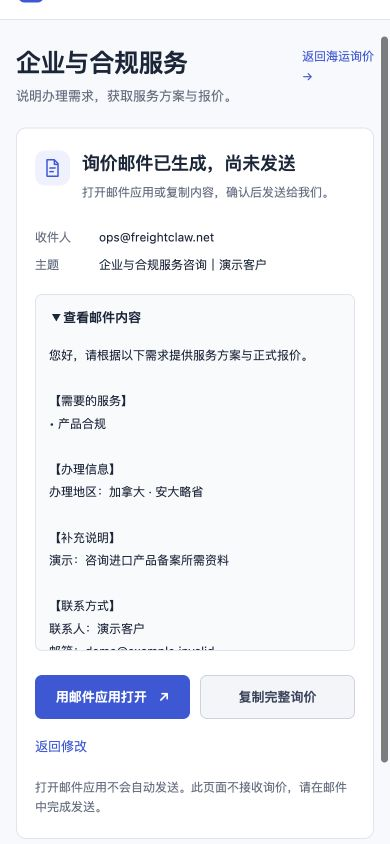
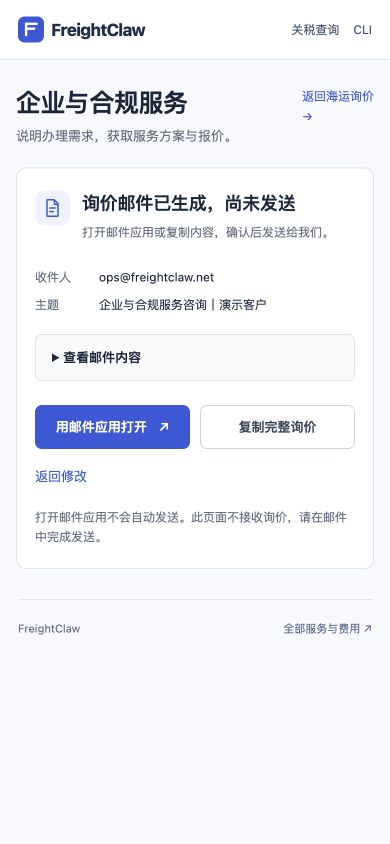
docs: add live inquiry screenshots and release verification

diff --git a/docs/runbooks/shipper-inquiry.md b/docs/runbooks/shipper-inquiry.md
@@ -25,6 +25,8 @@
 
 出货/服务日期、补充说明均可留空。页面不接受负数、零或科学计数法作为体积、重量或柜数；未掌握数量时使用「待确认」。返回上一步、切换整柜与拼箱时保留本页草稿；导出仅包含当前模式与当前服务相关的字段。
 
+![整柜运输信息示例，柜型与柜数按运输方式显示](assets/shipper-inquiry/05-fcl-desktop.jpg)
+
 ## 3. 确认并生成邮件
 
 核对服务与运输摘要，填写联系人和电子邮箱。公司、电话选填。点击「生成询价邮件」后显示完整预览和 **「询价邮件已生成，尚未发送」**。
@@ -35,6 +37,8 @@
 - 「返回修改」保留资料，修改后需要重新勾选核对。
 
 收件人沿用原应用的 `ops@freightclaw.net`。网站不接收、保存或代发本表单，生成预览不代表已经提交、收到或报价成功。草稿只在当前页面内存中保留，刷新或关闭页面会清空。
+
+![线上整柜邮件预览，使用演示资料，尚未发送](assets/shipper-inquiry/06-mail-desktop.jpg)
 
 ## 企业与合规服务
 
@@ -47,6 +51,8 @@
 [全部服务与费用](https://www.freightclaw.net/inquiry/details/) 在新标签页打开保留的完整询价应用，避免离开正在填写的简明表单。原 84 项服务、14 个分组、目录版本 `OCEAN-FLOW-2026-07-V4` 及原计算逻辑保持原样。
 
 新流程的摘要显示「待报价」，不读取或改写价格。原费用表里的 CAD/USD 小计仅代表原逻辑已计算部分，不能理解成尚未报价的整柜运费为零。
+
+![原完整费用应用，整柜运费仍独立勾选并标记待报价](assets/shipper-inquiry/07-details-desktop.jpg)
 
 ## 构建与验证
 
@@ -66,7 +72,14 @@ git diff --check
 
 本轮自动测试覆盖服务选择、条件字段、未知数量、严格数量与联系方式校验、当前服务范围、HTML 转义、邮件参数编码及长邮件完整保留。浏览器使用合成资料验证整柜、拼箱、错误定位、返回草稿、企业咨询、邮件生成和复制；没有发送邮件。
 
-本轮截图来自本地候选页面，视口为 1280 × 720、390 × 844 和当前窗口 729 × 686。上线读回和最终截图记录将在发布验证后写入本节。
+2026-09-07（北京时间）已发布并验证公开页面。本文 7 张截图均直接来自 `https://www.freightclaw.net/inquiry/` 或保留的 `/inquiry/details/`，未做图片编辑；视口为 1280 × 720、390 × 844 和 729 × 686。资料均为演示资料，未点击发送邮件。具体地址、UTC 拍摄时间、尺寸和 SHA-256 见 [截图记录](assets/shipper-inquiry/screenshots.json)。
+
+![729 像素窗口中的服务选择与固定下一步按钮](assets/shipper-inquiry/03-select-tablet.jpg)
+
+- [完整 CI](https://github.com/zqj372-ops/cross-border-logistics-mcp/actions/runs/34053603967) 在代码提交 `5372903ffd51dceca37df3a2413a6cc211383817` 上通过：179 个测试文件、1,728 项测试，以及整体/CLI 构建、类型检查、lint、Schema、Agent 标准、发布 fixture 和 Docker 镜像验证。CI 数据库验证使用隔离测试环境。
+- 线上浏览器完成整柜邮件生成与复制、拼箱零数量拦截、重量待确认、返回草稿、切换模式不带入旧柜型、独立企业咨询及原整柜勾选检查；三个视口均无横向溢出，两个询价页面均未记录到浏览器 warning/error。
+- 11 个公网路径返回 HTTP 200，文件内容全部符合发布清单。新 HTML 使用 `no-cache`；新 JS/CSS 使用内容摘要文件名。官网首页、原费用 JS/CSS 和 84 项费用目录读回与发布前一致。HTML 校验仅剔除 Cloudflare 追加的已知统计脚本，未忽略其他差异。
+- 以上记录证明本次页面及静态资源交付；不代表邮件已送达或询价已转为正式报价。可复查 [发布验证记录](assets/shipper-inquiry/verification.json)。
 
 ## 发布与回滚
 
@@ -77,3 +90,5 @@ git diff --check
 5. 用浏览器确认五项服务、三步询价、完整费用入口以及官网/关税/CLI 导航；不发送真实业务邮件。
 
 这次只发布静态询价页面及其 HTML 缓存配置，不需要数据库迁移或 Portal 镜像切换。回滚时恢复此次备份的询价 HTML、导航样式及 include，经配置检查后 reload；已有版本化资源可保留，不用旧备份覆盖数据库或其他业务应用。
+
+本次发布编号为 `inquiry-584bfabc3ec87057`，备份目录为 `/data/freightclaw/releases/inquiry-584bfabc3ec87057`。服务器文件校验与 `nginx -t` 均通过后完成 reload；Portal 镜像和 Nginx 主配置未变更。
